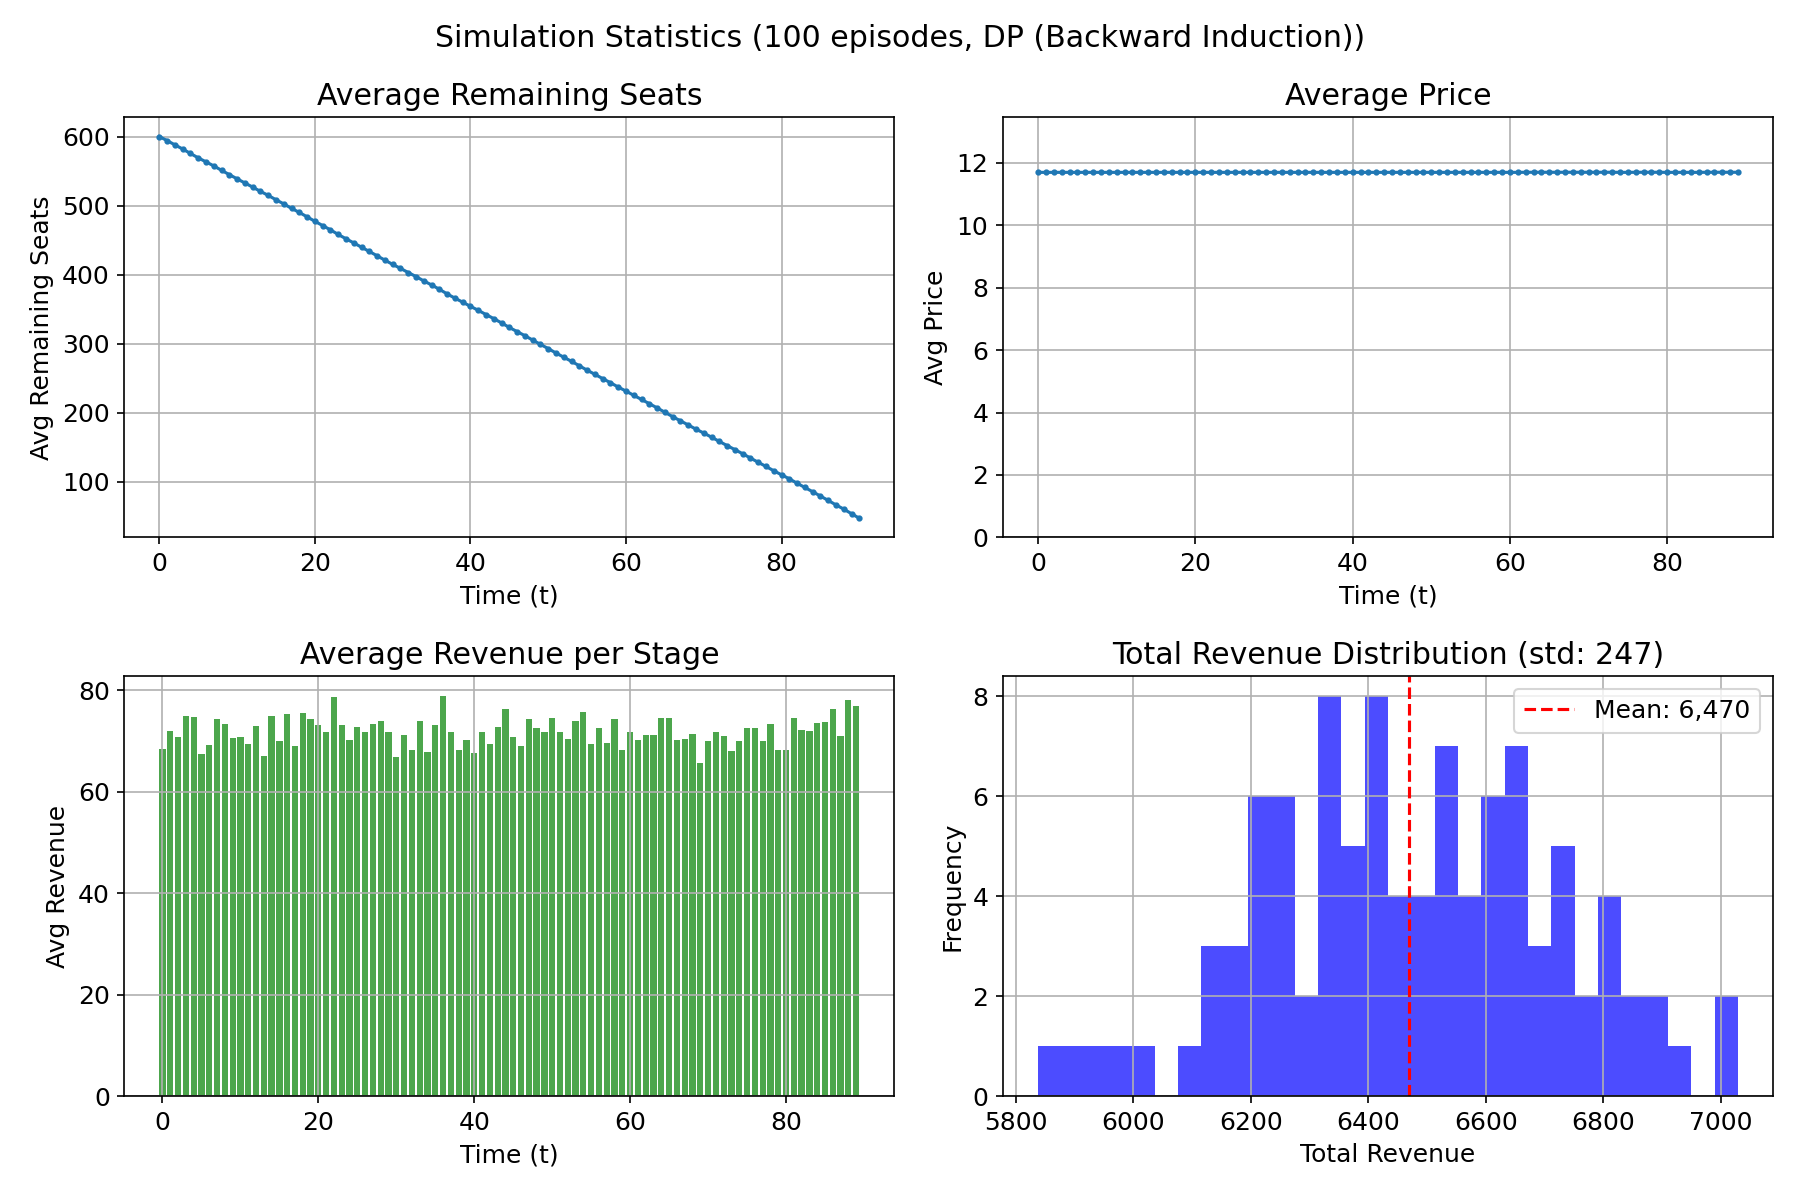
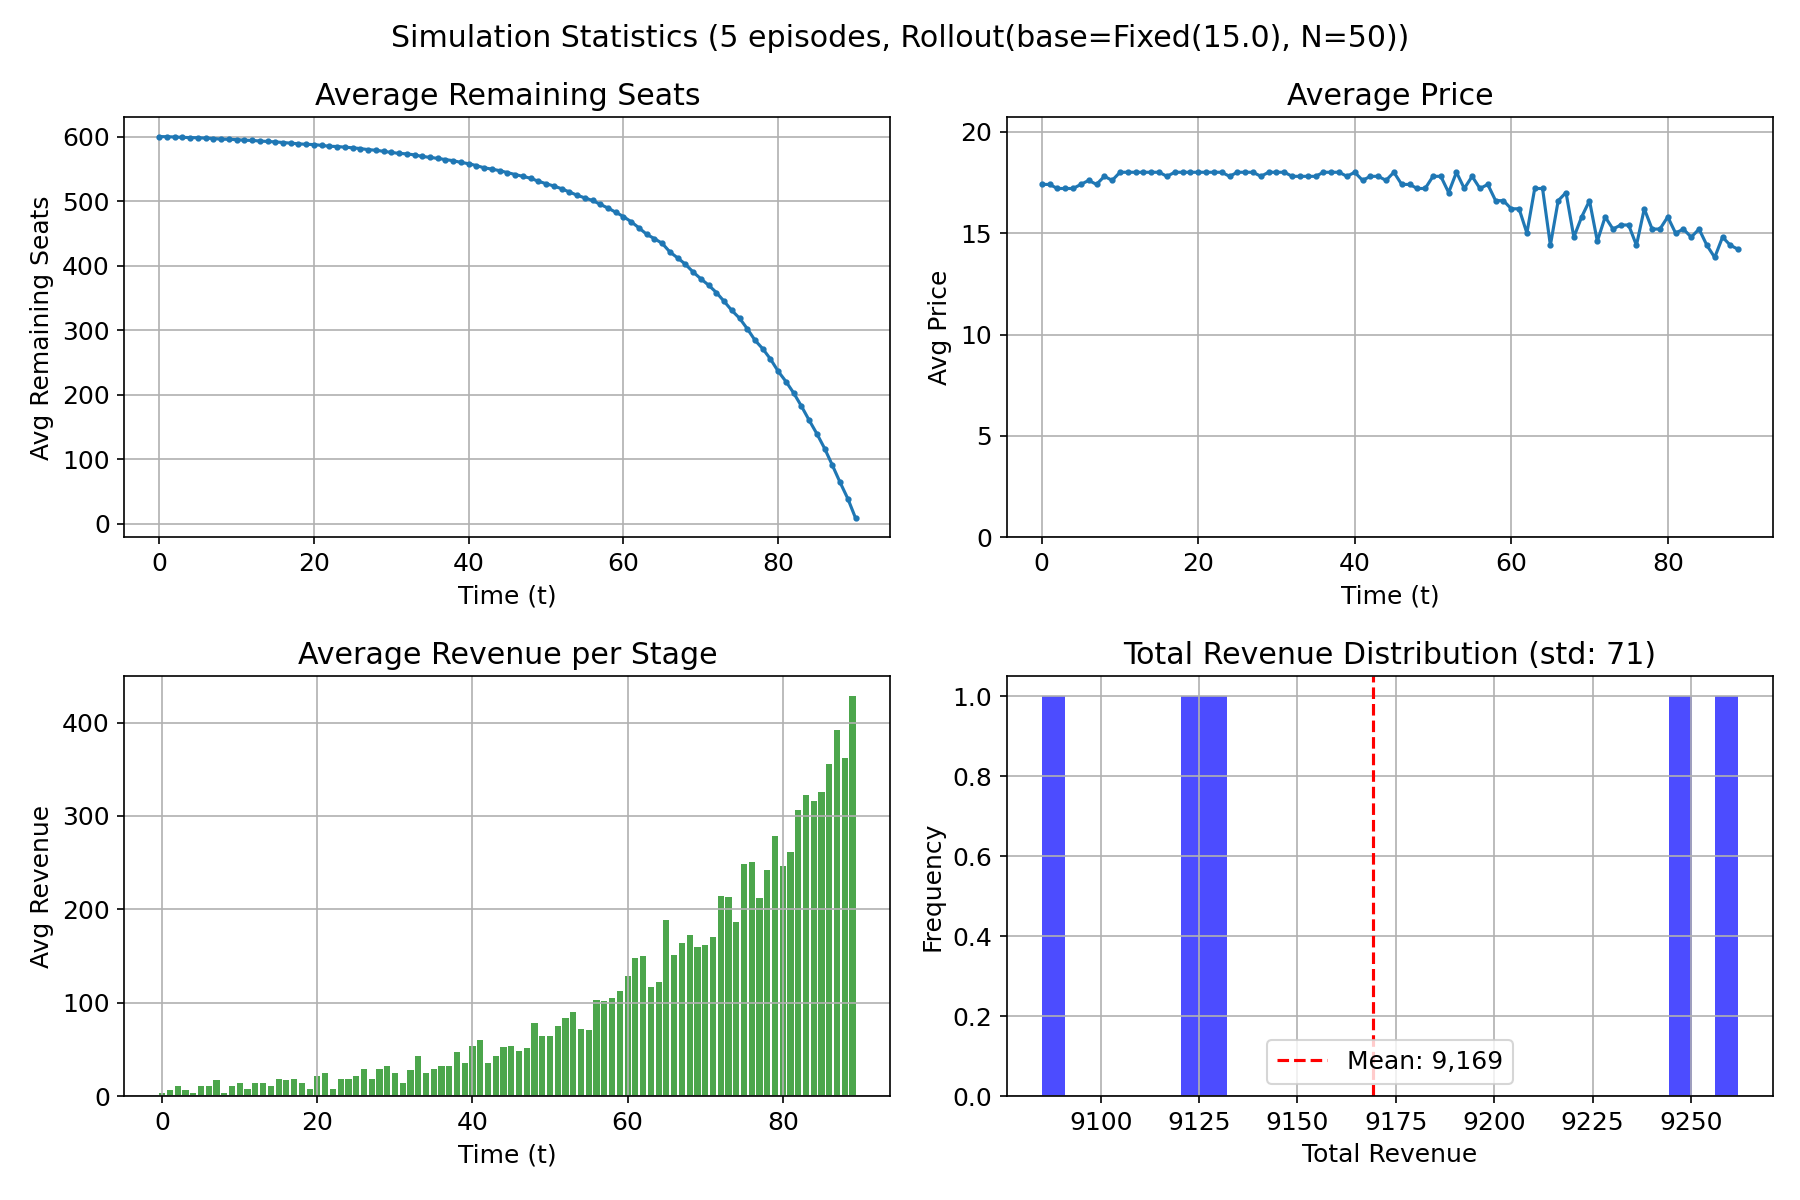
fix: rollout policy simulation error 수정

diff --git a/code/driver.py b/code/driver.py
@@ -71,7 +71,7 @@ class Simulator:
             actions.append(p_t)
 
             # 환경 스텝 실행
-            result = self.model.step(c_t, p_t, self.rng)
+            result = self.model.step(c_t, p_t, self.rng, t=t)
 
             arrivals.append(result['M_t'])
             sales.append(result['s_t'])
@@ -198,6 +198,19 @@ Examples:
         default=1,
         help='시나리오 선택: 1(인천-뉴욕, 비즈니스), 2(인천-호놀룰루, 레저) (기본: 1)'
     )
+    parser.add_argument(
+        '--n-simulations',
+        type=int,
+        default=100,
+        help='Rollout 시뮬레이션 횟수 (기본: 100)'
+    )
+    parser.add_argument(
+        '--rollout-base',
+        type=str,
+        choices=['fixed', 'greedy'],
+        default='fixed',
+        help='Rollout base policy (기본: fixed)'
+    )
     args = parser.parse_args()
 
     # 저장 경로 설정
@@ -295,15 +308,21 @@ Examples:
         print(f"  Initial Value V(0, {model.num_seats}): {policy.get_value(model.num_seats, 0):,.0f}")
 
     elif args.policy == 'rollout':
-        base_policy = FixedPricePolicy(fixed_price=args.fixed_price)
+        if args.rollout_base == 'fixed':
+            base_policy = FixedPricePolicy(fixed_price=args.fixed_price)
+            base_name = f"Fixed({args.fixed_price})"
+        else:
+            base_policy = GreedyPolicy(model=model)
+            base_name = "Greedy"
+
         policy = RolloutPolicy(
             model=model,
             base_policy=base_policy,
-            n_simulations=100,
+            n_simulations=args.n_simulations,
             rollout_depth=model.num_stages,
             seed=args.seed
         )
-        policy_name = f"Rollout(base=Fixed({args.fixed_price}))"
+        policy_name = f"Rollout(base={base_name}, N={args.n_simulations})"
 
     else:
         raise ValueError(f"Unknown policy: {args.policy}")
